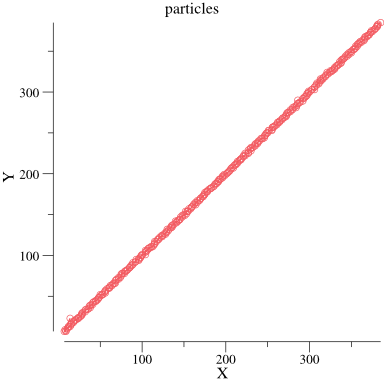
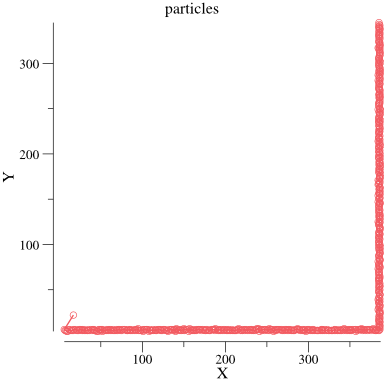
Modify

diff --git a/particle.go b/particle.go
@@ -2,8 +2,12 @@ package particle
 
 import (
 	"math/rand"
+	"time"
 )
 
+// Particle
+// X 状態（len = Dimension）
+// Weight 重み
 type Particle struct {
 	X      []int
 	Weight float64
@@ -12,12 +16,16 @@ type Particle struct {
 func NewParticle(dimension int) *Particle {
 	weight := 0.0
 	x := make([]int, dimension)
-	for i := 0; i < dimension; i++ {
-		x[i] = 0
-	}
 	return &Particle{x, weight}
 }
 
+// ParticleFilter
+// Number 粒子数
+// Dimension 次元数
+// Upper 最大値（len = Dimension）
+// Lower 最大値（len = Dimension）
+// Noise 最大値（len = Dimension）
+// Particles 粒子の構造体
 type ParticleFilter struct {
 	Number    int
 	Dimension int
@@ -40,58 +48,75 @@ func NewParticleFilter(number, dimension int, upper, lower, noise []int) *Partic
 	return &f
 }
 
+// InitialParticles
+// 粒子を一様に分布する
 func (f *ParticleFilter) InitialParticles() {
-	particles := make([]Particle, f.Number)
+	// 乱数シード
+	rand.Seed(time.Now().UnixNano())
 
+	// 粒子の配列生成
+	f.Particles = make([]Particle, f.Number)
+
+	// 分布
 	for i := 0; i < f.Number; i++ {
 		particle := NewParticle(f.Dimension)
 		for j := 0; j < f.Dimension; j++ {
 			particle.X[j] = (rand.Int() % (f.Upper[j] - f.Lower[j])) + f.Lower[j]
 		}
 		particle.Weight = 1.0 / float64(f.Number)
-		particles[i] = *particle
+		f.Particles[i] = *particle
 	}
-
-	f.Particles = particles
 }
 
+// Resample
+// 前状態における重みに基き、粒子を選び直す。（ルーレット選択）
 func (f *ParticleFilter) Resample() {
-	w := make([]float64, f.Number)
-	w[0] = f.Particles[0].Weight
+	// 累積重み
+	var ws = make([]float64, f.Number)
+	ws[0] = f.Particles[0].Weight
 	for i := 1; i < f.Number; i++ {
-		w[i] = w[i-1] + f.Particles[i].Weight
+		ws[i] = ws[i-1] + f.Particles[i].Weight
 	}
 
-	temp := make([]Particle, f.Number)
+	// 一時的な変数に前状態の粒子を入れる
+	var temp = make([]Particle, f.Number)
 	for i := 0; i < f.Number; i++ {
 		temp[i] = f.Particles[i]
 	}
 
+	// 粒子を選び直す
 	for i := 0; i < f.Number; i++ {
-		r := float64((rand.Int() % 10000)) / 10000.0
+		var (
+			r = float64((rand.Int() % 10000)) / 10000.0
+			m = 0
+		)
 		for j := 0; j < f.Number; j++ {
-			if r > w[j] {
-				continue
+			if ws[j] >= r {
+				m = j
+				break
 			}
-			for k := 0; k < f.Dimension; k++ {
-				f.Particles[i].X[k] = temp[j].X[k]
-			}
-			f.Particles[i].Weight = 0.0
-			break
 		}
+		for k := 0; k < f.Dimension; k++ {
+			f.Particles[i].X[k] = temp[m].X[k]
+		}
+		f.Particles[i].Weight = 0.0
 	}
 }
 
+// Predict
+// 予測モデル（calculate）に従って粒子の位置を予測する
 func (f *ParticleFilter) Predict(calculate func(int, []int) Particle) {
 	for i := 0; i < f.Number; i++ {
-		noises := make([]int, f.Dimension)
-
+		// ノイズ
+		var noises = make([]int, f.Dimension)
 		for j := 0; j < f.Dimension; j++ {
 			noises[j] = (rand.Int() % (f.Noise[j] * 2)) - f.Noise[j]
 		}
 
+		// 推測
 		f.Particles[i] = calculate(i, noises)
 
+		// 定められた最大値と最小値を考慮する
 		for j := 0; j < f.Dimension; j++ {
 			if f.Particles[i].X[j] < f.Lower[j] {
 				f.Particles[i].X[j] = f.Lower[j]
@@ -104,12 +129,16 @@ func (f *ParticleFilter) Predict(calculate func(int, []int) Particle) {
 	}
 }
 
+// Weight
+// 尤度計算式（calculate）に従って重み付けする
 func (f *ParticleFilter) Weight(calculate func(int) Particle) {
+	// 粒子の尤度計算
 	for i := 0; i < f.Number; i++ {
 		f.Particles[i] = calculate(i)
 	}
 
-	sum := 0.0
+	// 正規化
+	var sum = 0.0
 	for i := 0; i < f.Number; i++ {
 		sum += f.Particles[i].Weight
 	}
@@ -118,14 +147,15 @@ func (f *ParticleFilter) Weight(calculate func(int) Particle) {
 	}
 }
 
+// Measure
+// 重み付き平均から、現状態の粒子を推定する
 func (f *ParticleFilter) Measure() Particle {
 
-	res := NewParticle(f.Dimension)
+	var (
+		res = NewParticle(f.Dimension)
 
-	x := make([]float64, f.Dimension)
-	for i := 0; i < f.Dimension; i++ {
-		x[i] = 0.0
-	}
+		x = make([]float64, f.Dimension)
+	)
 
 	for i := 0; i < f.Number; i++ {
 		for j := 0; j < f.Dimension; j++ {

diff --git a/cmd/main.go b/cmd/main.go
@@ -11,19 +11,24 @@ import (
 	"github.com/gotokatsuya/particle"
 )
 
+// 点(x,y)
 type point struct {
 	x int
 	y int
 }
 
+// (w, h)からなる範囲を初期化する
+// 物体の位置を mx, my に従って移動させる
 func makeField(w, h, mx, my int) (map[point]int, []point) {
-	field := map[point]int{}
-	targetPoints := []point{}
+	var (
+		field        = map[point]int{}
+		targetPoints = []point{}
 
-	length := 10
+		length = 10
 
-	maxX := length + mx
-	maxY := length + my
+		maxX = length + mx
+		maxY = length + my
+	)
 
 	for y := 0; y < h; y++ {
 		for x := 0; x < w; x++ {
@@ -44,6 +49,7 @@ func makeField(w, h, mx, my int) (map[point]int, []point) {
 	return field, targetPoints
 }
 
+// 点をプロットしてグラフを作成する
 func drawPlot(title string, ps []point) {
 	p, err := plot.New()
 	if err != nil {
@@ -84,22 +90,22 @@ func main() {
 	var (
 		particlePoints = []point{}
 
-		number    = 800
+		number    = 1000
 		dimension = 4
 
 		upper = []int{width, height, 10, 10}
 		lower = []int{0, 0, -10, -10}
 		noise = []int{30, 30, 10, 10}
+
+		f = particle.NewParticleFilter(number, dimension, upper, lower, noise)
 	)
 
-	f := particle.NewParticleFilter(number, dimension, upper, lower, noise)
-
-	for i := 0; i < 380; i++ {
+	for i := 0; i < 720; i++ {
 
 		f.Resample()
 
 		f.Predict(func(j int, noises []int) particle.Particle {
-			// uniform linear motion
+			// 等速直線運動
 			f.Particles[j].X[0] += f.Particles[j].X[2] + noises[0]
 			f.Particles[j].X[1] += f.Particles[j].X[3] + noises[1]
 			f.Particles[j].X[2] += noises[2]
@@ -108,6 +114,7 @@ func main() {
 		})
 
 		f.Weight(func(j int) particle.Particle {
+			// 尤度計算
 			x := f.Particles[j].X[0]
 			y := f.Particles[j].X[1]
 			if v, ok := src[point{x, y}]; ok {
@@ -124,8 +131,11 @@ func main() {
 		particlePoints = append(particlePoints, point{res.X[0], res.X[1]})
 
 		// target moves
-		mx++
-		my++
+		if i >= 380 {
+			my++
+		} else {
+			mx++
+		}
 		src, currentTargetPoints = makeField(width, height, mx, my)
 		targets = append(targets, currentTargetPoints...)
 	}
